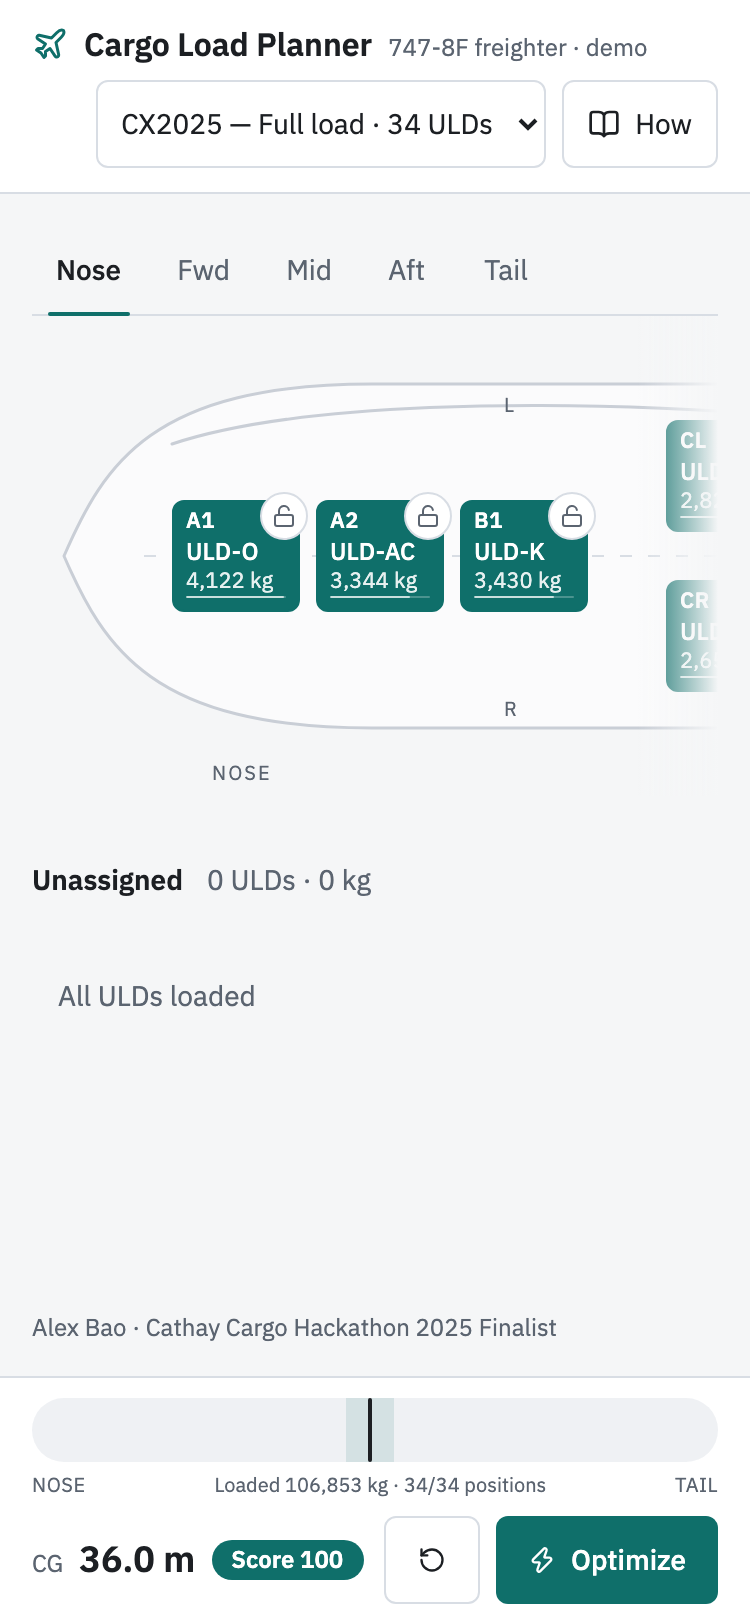
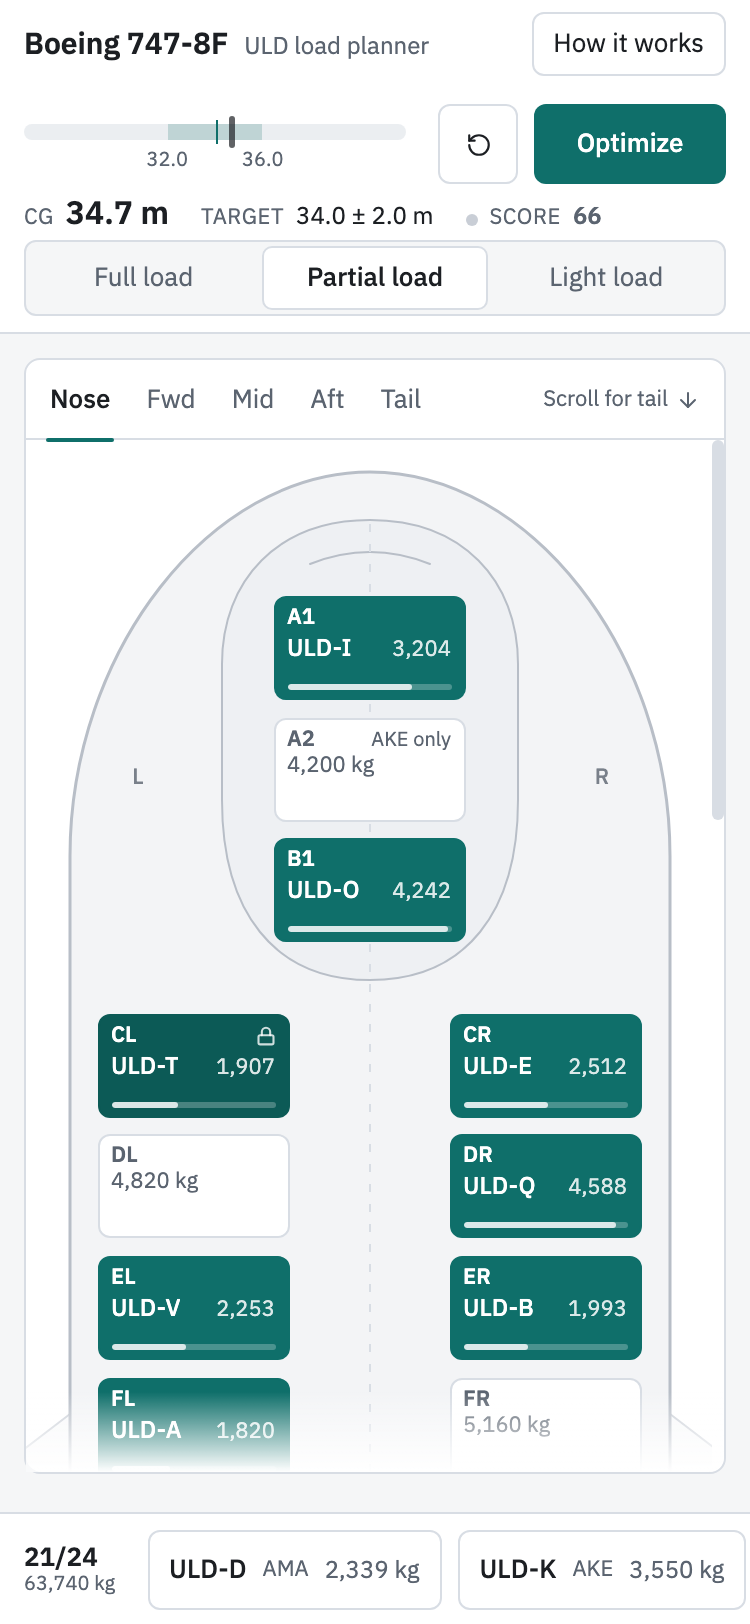
docs: readme for the v2 layout, consolidate screenshots

diff --git a/README.md b/README.md
@@ -1,40 +1,72 @@
-# Cargo Load Planner
+# Boeing 747-8F · ULD Load Planner
 
-An interactive ULD load-planning demo for a 747-8F freighter. Drag containers onto a top-down view of the aircraft, watch the centre of gravity move, lock the positions you want to keep, and let a mixed-integer programme place the rest — solved by GLPK compiled to WebAssembly, entirely in your browser. Rebuilt from a Cathay Cargo Hackathon 2025 finalist entry.
+An interactive cargo load-planning demo. Drag ULD containers onto a top-down view of a 747-8F freighter, watch the centre of gravity move in real time, lock the positions you want to keep, and let a mixed-integer programme place the rest — solved by GLPK compiled to WebAssembly, entirely in your browser. No backend.
 
-**Try it:** https://cargo-demo.zijun.cloud
+Rebuilt from a Cathay Cargo Hackathon 2025 finalist entry.
 
-![Cargo Load Planner — desktop view after Optimize](docs/screenshots/desktop.png)
+**Live demo:** https://cargo-demo.zijun.cloud
 
-## Features
+<p align="center">
+  <img src="docs/screenshots/desktop.png" alt="Desktop — partial load after Optimize, one position locked" width="820">
+</p>
 
-- **Scrollable fuselage** — 34 positions (nose, main deck rows C–Q left/right, tail) on a horizontally scrolling aircraft with section tabs
-- **Drag or tap** — drag-and-drop on desktop, tap-to-place on mobile; invalid positions (over capacity, wrong ULD type) are flagged before you drop
-- **Lock positions** — pin a ULD where it is; the optimiser treats it as fixed (human-in-the-loop)
-- **Optimize in-browser** — a MILP with binary assignment variables, position weight limits and ULD-type compatibility, minimising CG deviation plus a lateral-balance penalty
-- **Live CG gauge and score** — target band, tolerance, 0–100 score, solve time
-- **Three scenarios** — CX2025 full load (34 ULDs), CX1234 partial (24), CX5678 light (16); synthetic data
+## What it does
 
-## How it works
+| | |
+|---|---|
+| **Aircraft view** | 34 cargo positions (nose A1/A2/B1, main deck rows C–Q left/right, tail R1) laid out on an accurate top-down 747-8F silhouette, nose at the top, scrolling like an airline seat map |
+| **Load by hand** | Drag-and-drop on desktop, tap-to-place on mobile. Over-weight or wrong-type positions are dimmed and refused with a reason |
+| **Lock positions** | Pin a ULD where it is; the optimiser treats it as fixed — human-in-the-loop planning |
+| **Optimize** | A MILP assigns every remaining ULD to minimise longitudinal-CG deviation from the target plus a small lateral-imbalance penalty, respecting position weight limits and ULD-type rules |
+| **Live CG strip** | Nose→tail gauge with the ±tolerance band, CG value, 0–100 score, loaded weight, solve time |
+| **Three scenarios** | Full load (34 ULDs), Partial (24), Light (16) — same aircraft, different manifests, so you can see the solver choose *which* positions to leave empty |
 
-Every ULD–position pair that fits becomes a binary variable; each ULD must land in exactly one position and each position holds at most one ULD. The longitudinal CG is a linear function of those variables, so minimising its distance from the target (plus a small penalty on left–right moment) is a mixed-integer linear programme. GLPK, compiled to WebAssembly via glpk.js, solves it in a Web Worker in well under half a second for the full 34-ULD case (≈ 1,100 binaries, 40–360 ms measured). Full formulation, original hackathon model and literature comparison: [`docs/algorithm.md`](docs/algorithm.md).
+<p align="center">
+  <img src="docs/screenshots/mobile.png" alt="Mobile — bottom ULD strip, tap-to-place" width="300">
+</p>
+
+## How the optimiser works
+
+Every ULD–position pair that fits (weight under the position limit, type allowed) becomes a binary variable `x[i,j]`. Each ULD must land in exactly one position, each position holds at most one ULD, and locked pairs are fixed at 1. Because total weight is a constant, the longitudinal CG is a linear function of those variables, so minimising its distance from the target is a mixed-integer linear programme:
+
+```
+minimise   |CG − target|  +  λ · |left–right moment| / W        (λ = 0.05)
+subject to Σ_j x[i,j] = 1   for every ULD i
+           Σ_i x[i,j] ≤ 1   for every position j
+           W · CG = Σ w_i · a_j · x[i,j]
+```
+
+GLPK 5, compiled to WebAssembly via [glpk.js](https://github.com/jvail/glpk.js), solves it in a Web Worker. The full 34-ULD case is ≈ 1,100 binaries and solves to proven optimality in 40–360 ms on a laptop. Derivation, the original hackathon model (and its bug), and a comparison with the air-cargo load-planning literature: [`docs/algorithm.md`](docs/algorithm.md).
 
 ## Stack
 
-Vite · React 19 · TypeScript · Tailwind CSS v4 · zustand · @dnd-kit/core · glpk.js (GLPK 5 → wasm) · vitest. Static SPA, no backend.
+Vite · React 19 · TypeScript · Tailwind CSS v4 · zustand · @dnd-kit/core · glpk.js · vitest
 
 ## Run locally
 
 ```bash
 npm i
 npm run dev        # http://localhost:5173
-npm run test       # solver tests
-npm run build      # dist/
+npm run test       # solver tests (vitest, runs GLPK in node)
+npm run build      # static build → dist/
+```
+
+## Repository layout
+
+```
+src/domain/      types — Uld, Position, Flight, Assignment
+src/data/        the three scenarios
+src/solver/      MILP model builder, GLPK engine, result parser, tests
+src/store/       zustand state (assignment, locks, selection, optimise)
+src/components/  aircraft card, fuselage SVG, tiles, ULD panel, CG strip, drawer
+docs/            algorithm.md · case-study.md · design specs and reviews
 ```
 
 ## Attribution
 
-Alex Bao · Cathay Cargo Hackathon 2025 Finalist. Positions, weights and ULD ids are synthetic hackathon values re-scaled to freighter magnitudes; they are not real airline data. Case study: [`docs/case-study.md`](docs/case-study.md).
+Built by Alex Bao. Originates from a Cathay Cargo Hackathon 2025 finalist project; the interactive rebuild (2026) replaced the server-side solver and 34-card list with an in-browser MILP and the aircraft view above. Positions, weights and ULD ids are synthetic hackathon values re-scaled to freighter magnitudes — not real airline data.
+
+Case study: [`docs/case-study.md`](docs/case-study.md)
 
 ## License
 
